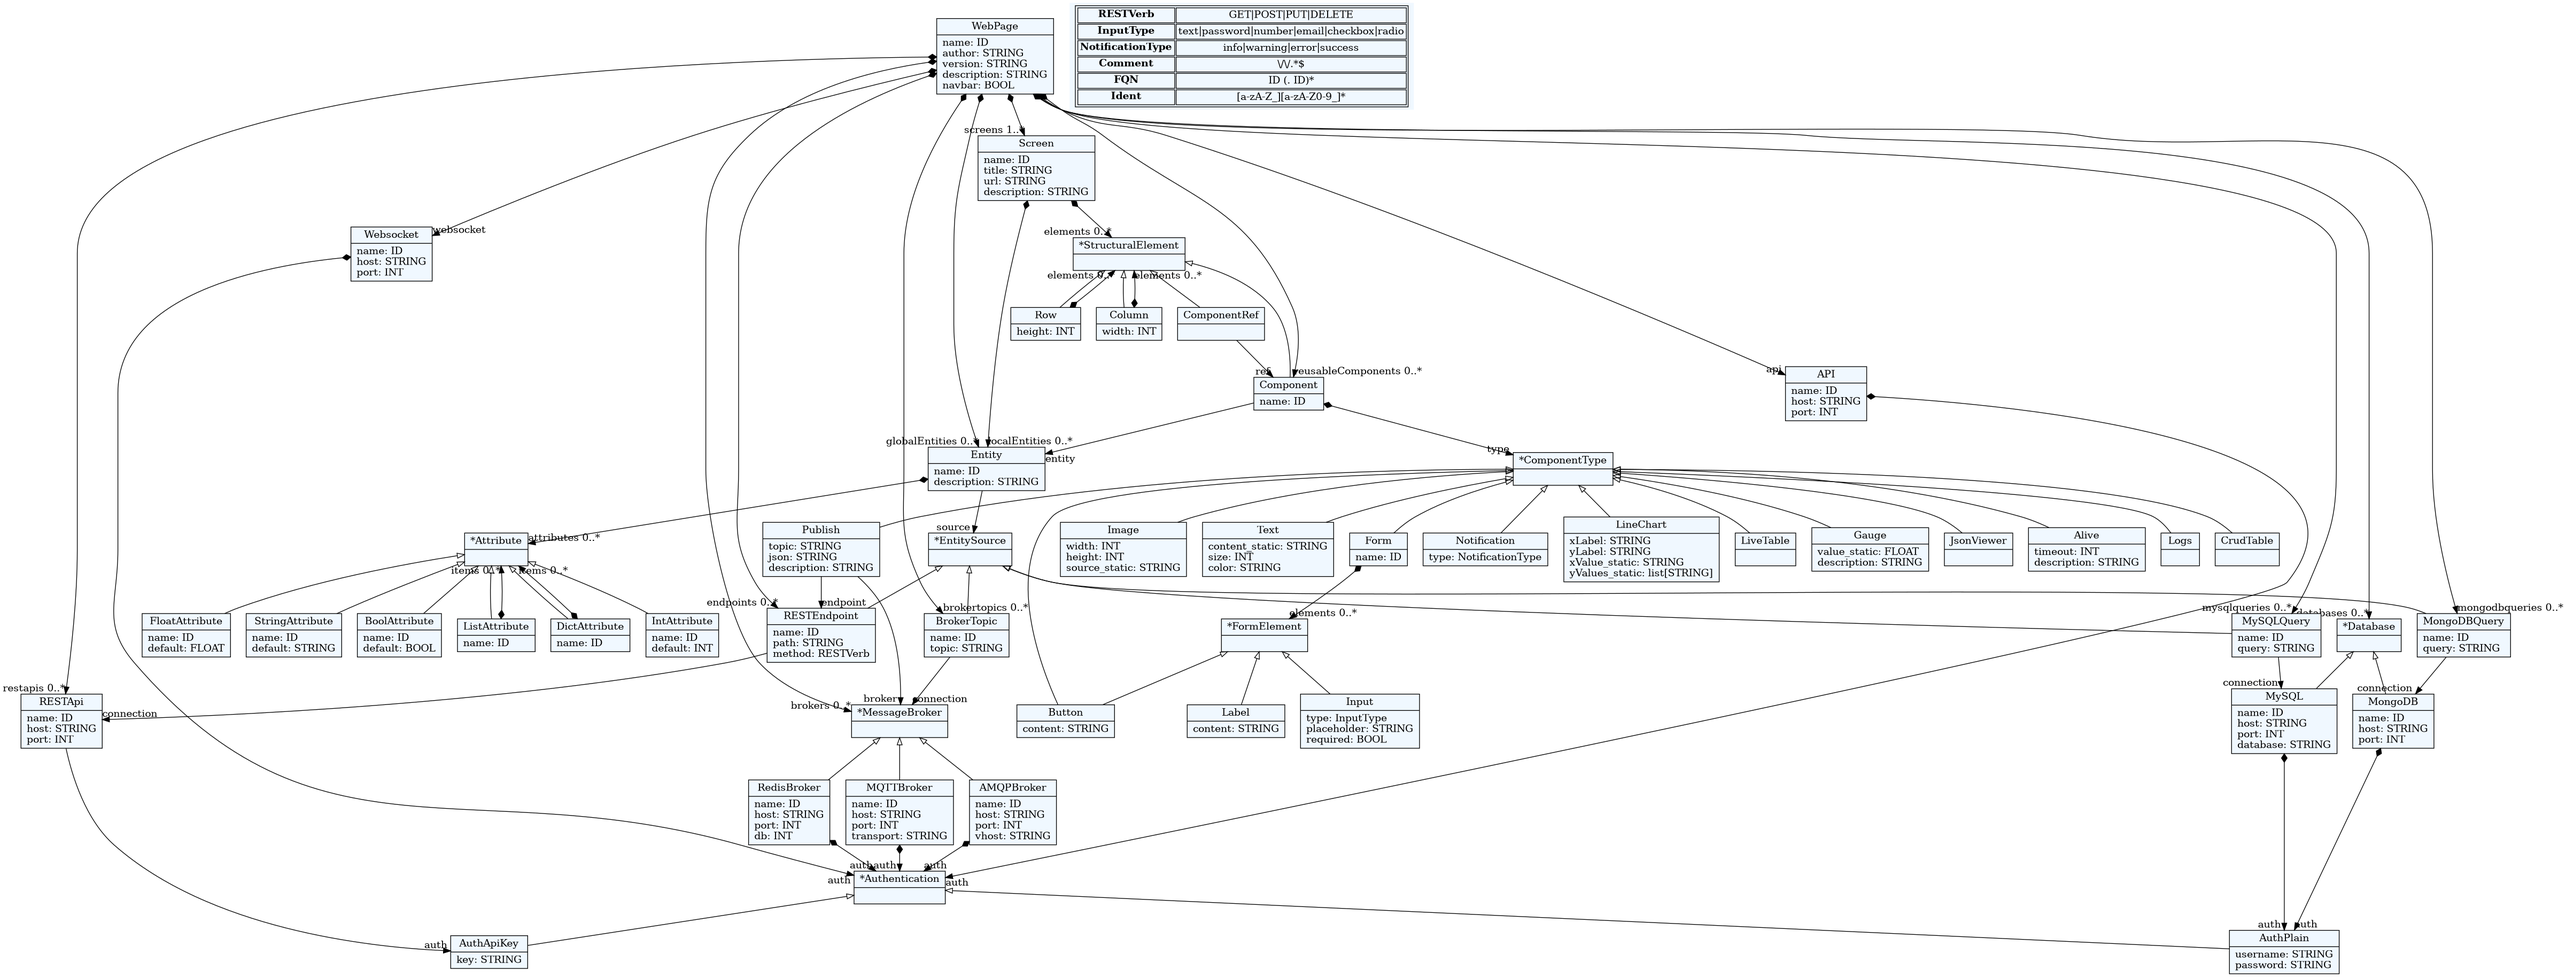
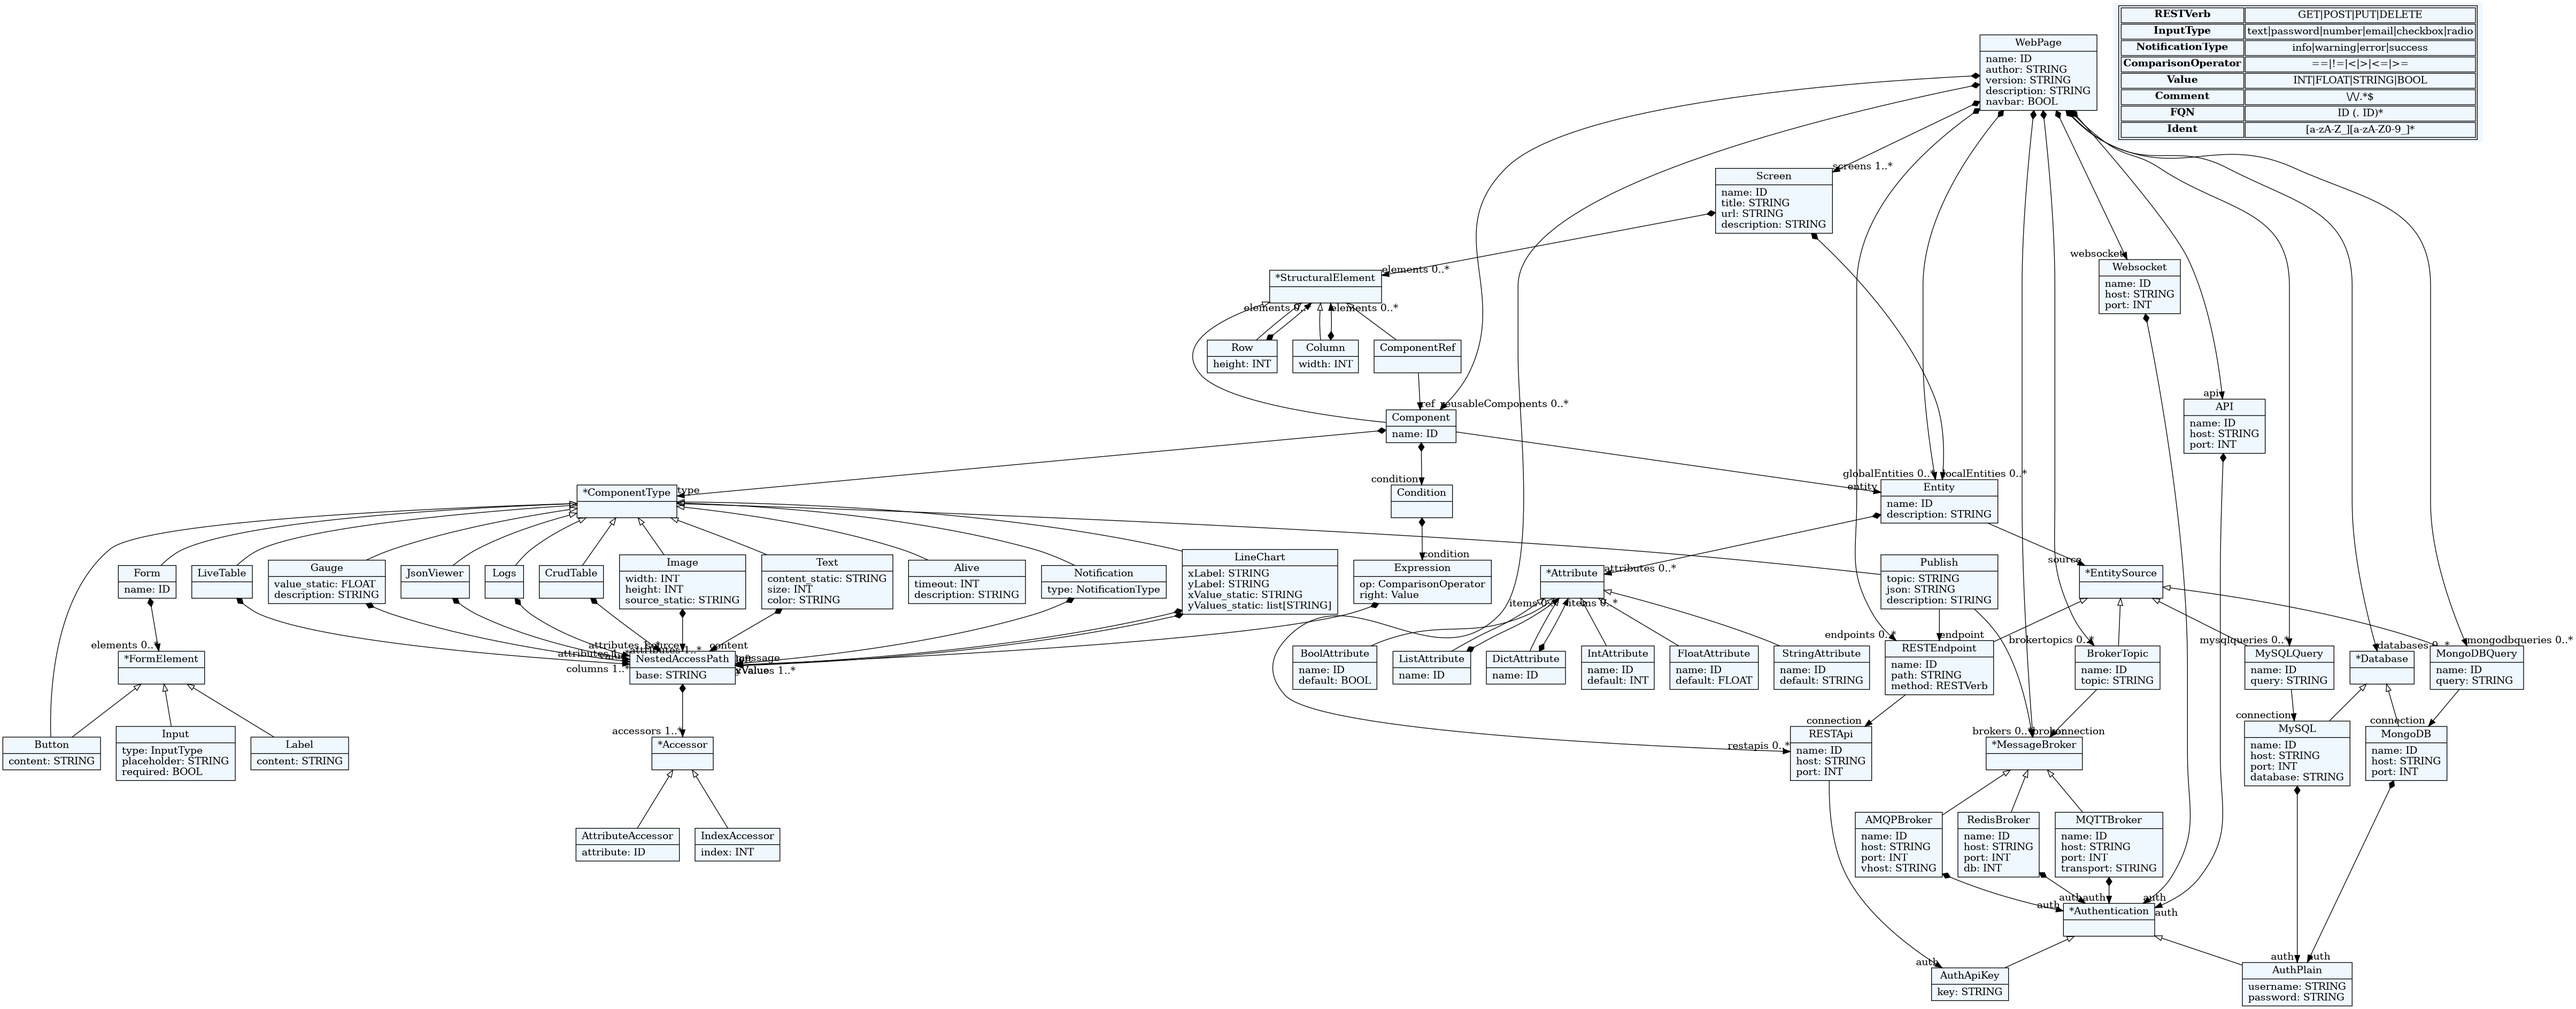
Added plant visualization

diff --git a/web_dsl/visualize_plant.py b/web_dsl/visualize_plant.py
@@ -1,0 +1,21 @@
+from textx import metamodel_from_file
+from textx.export import metamodel_export, PlantUmlRenderer
+import os
+
+mm = metamodel_from_file("./grammar/webpage.tx")
+
+pu_file = "mm.pu"
+metamodel_export(mm, pu_file, renderer=PlantUmlRenderer())
+
+os.system(f"plantuml -Tsvg {pu_file}")
+
+os.remove(pu_file)
+
+svg_file = "mm.svg"
+png_file = "metamodel_plant.png"
+
+os.system(f"convert -background white -flatten {svg_file} {png_file}")
+
+os.remove(svg_file)
+
+print(f"Metamodel exported to {png_file}")
